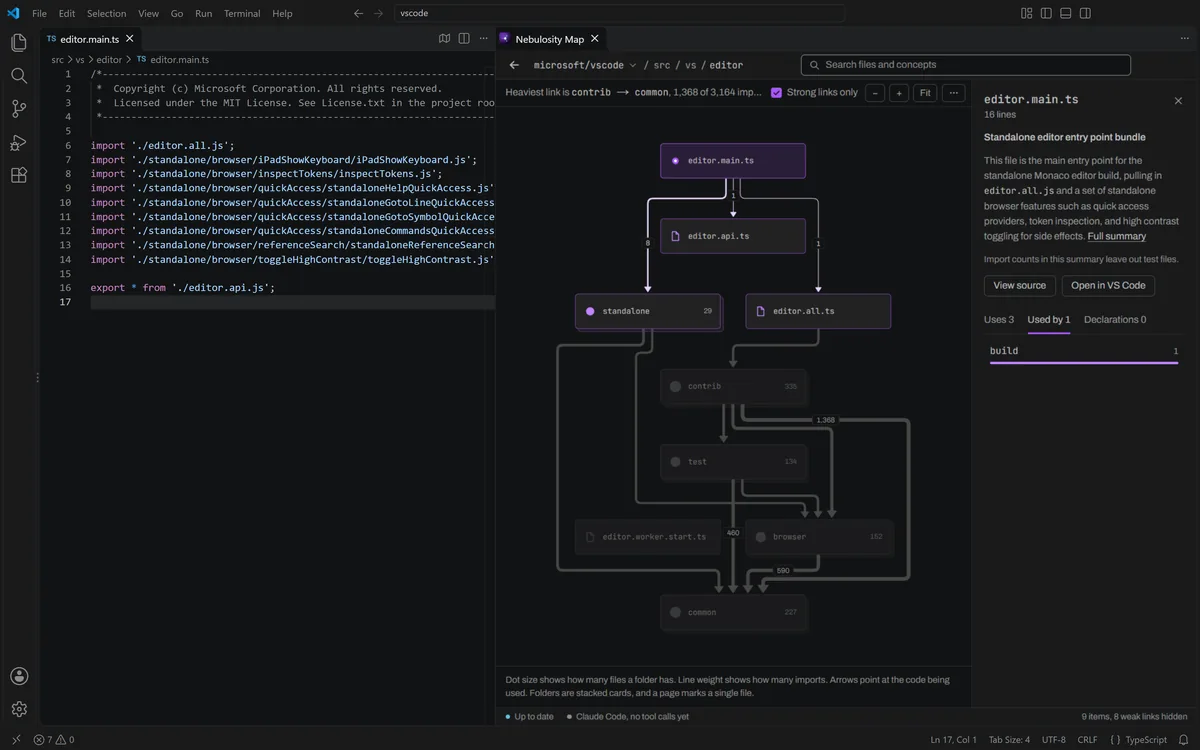
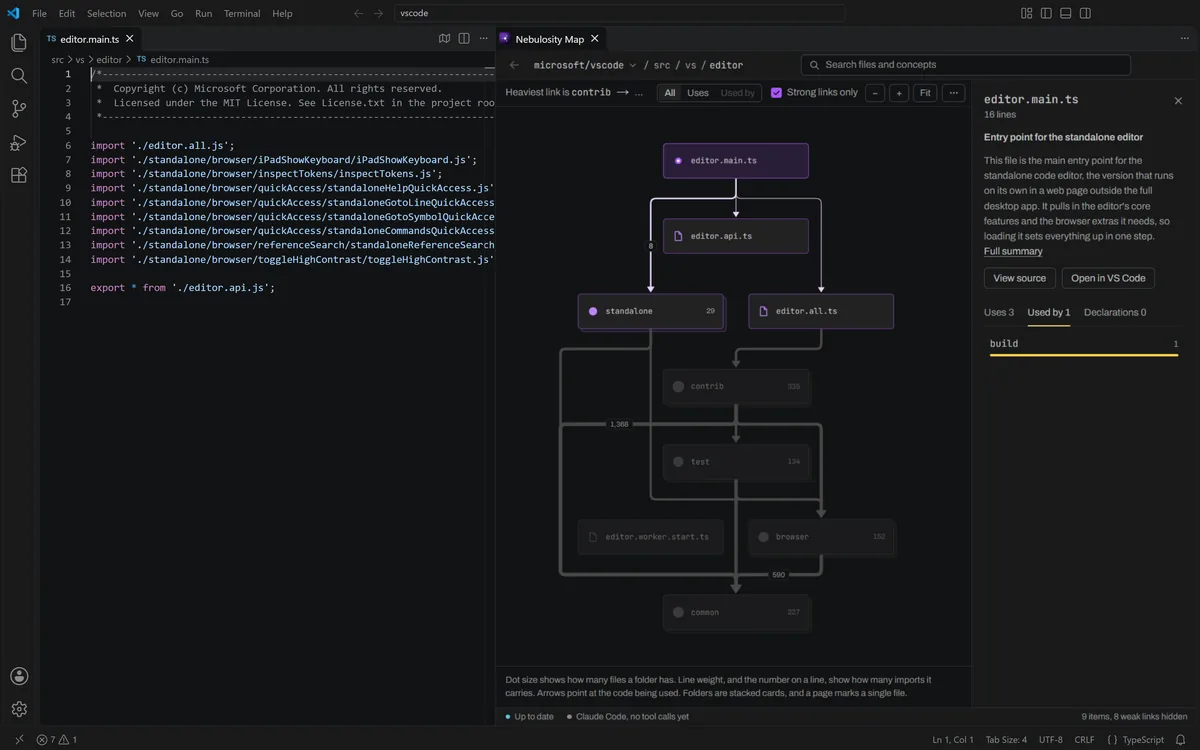
feat(site): the screenshots and the social card recaptured from main, in the Map's current look
The hero window, the phone crop of the panel, the "uses" and search crops in Dark 2026 and Light 2026, and og.png,
all taken again the way the redesign took them (a scratch VS Code profile at 1600 by 1000 and 2x, the same crops and
the same card page), from main at 3a5fc09 over a read-only copy of the demo's index. They were from 0063e4c, before the
merged lines, Uses and Used by, the gold lines and the plainer summaries.

- The "uses" scene is shown after the Map's Fit (68% in place of 75%), since the root level is now wider than the
  canvas, and as opened its 665 label sat cut at the edge.
- The search's alt text follows the new summary of src/vs/platform/terminal, "Built-in terminal platform services".
  Every other caption and alt text still matches what the images show.

diff --git a/site/index.html b/site/index.html
@@ -108,7 +108,7 @@
         </div>
         <a class="frame" href="images/search-dark.webp" data-href="images/search-{t}.webp" title="Show the screenshot full size">
           <img src="images/search-dark.webp" data-src="images/search-{t}.webp" width="1360" height="1080" loading="lazy"
-            alt="A search for terminal process. src/vs/platform/terminal comes first, the integrated terminal platform backend, then the terminal folders elsewhere and src/vs/platform/process">
+            alt="A search for terminal process. src/vs/platform/terminal comes first, the built-in terminal platform services, then the terminal folders elsewhere and src/vs/platform/process">
         </a>
       </div>
     </div>
